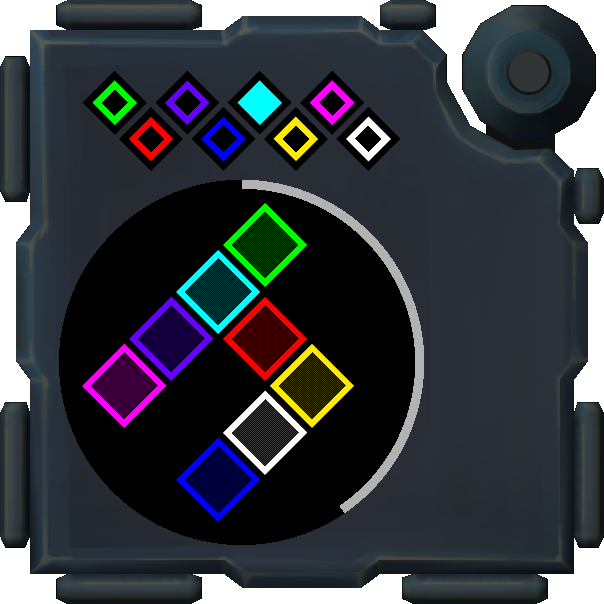
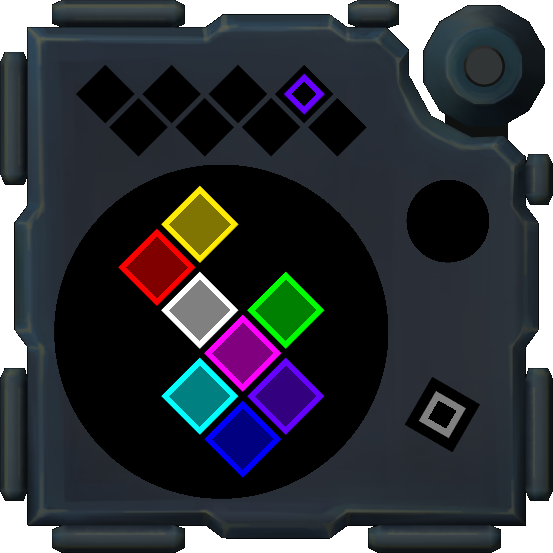
v0.9 release

diff --git a/Assets/Octomino/Scripts/OctominoModule.cs b/Assets/Octomino/Scripts/OctominoModule.cs
@@ -76,7 +76,16 @@ public class OctominoModule : ModdedModule {
 	// private readonly int[] STAGES_DIMS = new int[] { 3, 3, 3, 3, 3 };
 	// private readonly int[] STAGES_DIMS = new int[] { 4, 4, 4, 4, 4 };
 
-	private readonly Color[] _colors = new Color[] { Color.red, Color.green, Color.blue, Color.cyan, Color.magenta, Color.yellow, Color.white, new Color(.4f, 0, 1f) };
+	private readonly Color[] _colors = new Color[] {
+		Color.red,
+		Color.green,
+		Color.blue,
+		Color.cyan,
+		Color.magenta,
+		Color.yellow,
+		Color.white,
+		new Color32(0x7f, 0, 0xff, 0xff), // purple
+	};
 
 	private Vector2 _mouseRotationPosition;
 	private bool _isRotating = false;
@@ -401,7 +410,11 @@ public class OctominoModule : ModdedModule {
 	}
 
 	protected void CustomLogger(string str, params object[] args) {
+#if UNITY_EDITOR
+		Log(str, args);
+#else
 		Log(EncryptLog(string.Format(str, args)));
+#endif
 	}
 
 	private void LogPathAndTimer() {
@@ -449,7 +462,7 @@ public class OctominoModule : ModdedModule {
 			case "#FF00FF": return "M";
 			case "#FFEB04": return "Y";
 			case "#FFFFFF": return "W";
-			case "#6600FF": return "P";
+			case "#7F00FF": return "P";
 			default: return result;
 		}
 	}

diff --git a/Assets/Octomino/Scripts/OctominoRenderer4D.cs b/Assets/Octomino/Scripts/OctominoRenderer4D.cs
@@ -56,7 +56,11 @@ public class OctominoRenderer4D : MonoBehaviour, IOctominoRenderer {
 	}
 
 	public void Rotate(Vector2 dv2) {
+#if UNITY_EDITOR
 		RendererContainer.Rotate(Vector3.back, dv2.x, Space.World);
+#else
+		RendererContainer.Rotate(Vector3.down, dv2.x, Space.World);
+#endif
 		RendererContainer.Rotate(Vector3.right, dv2.y, Space.World);
 	}
 

diff --git a/Assets/Octomino/Scripts/OctominoRenderer3D.cs b/Assets/Octomino/Scripts/OctominoRenderer3D.cs
@@ -40,7 +40,11 @@ public class OctominoRenderer3D : MonoBehaviour, IOctominoRenderer {
 	}
 
 	public void Rotate(Vector2 dv2) {
+#if UNITY_EDITOR
 		CubesContainer.Rotate(Vector3.back, dv2.x, Space.World);
+#else
+		CubesContainer.Rotate(Vector3.down, dv2.x, Space.World);
+#endif
 		CubesContainer.Rotate(Vector3.right, dv2.y, Space.World);
 	}
 }
